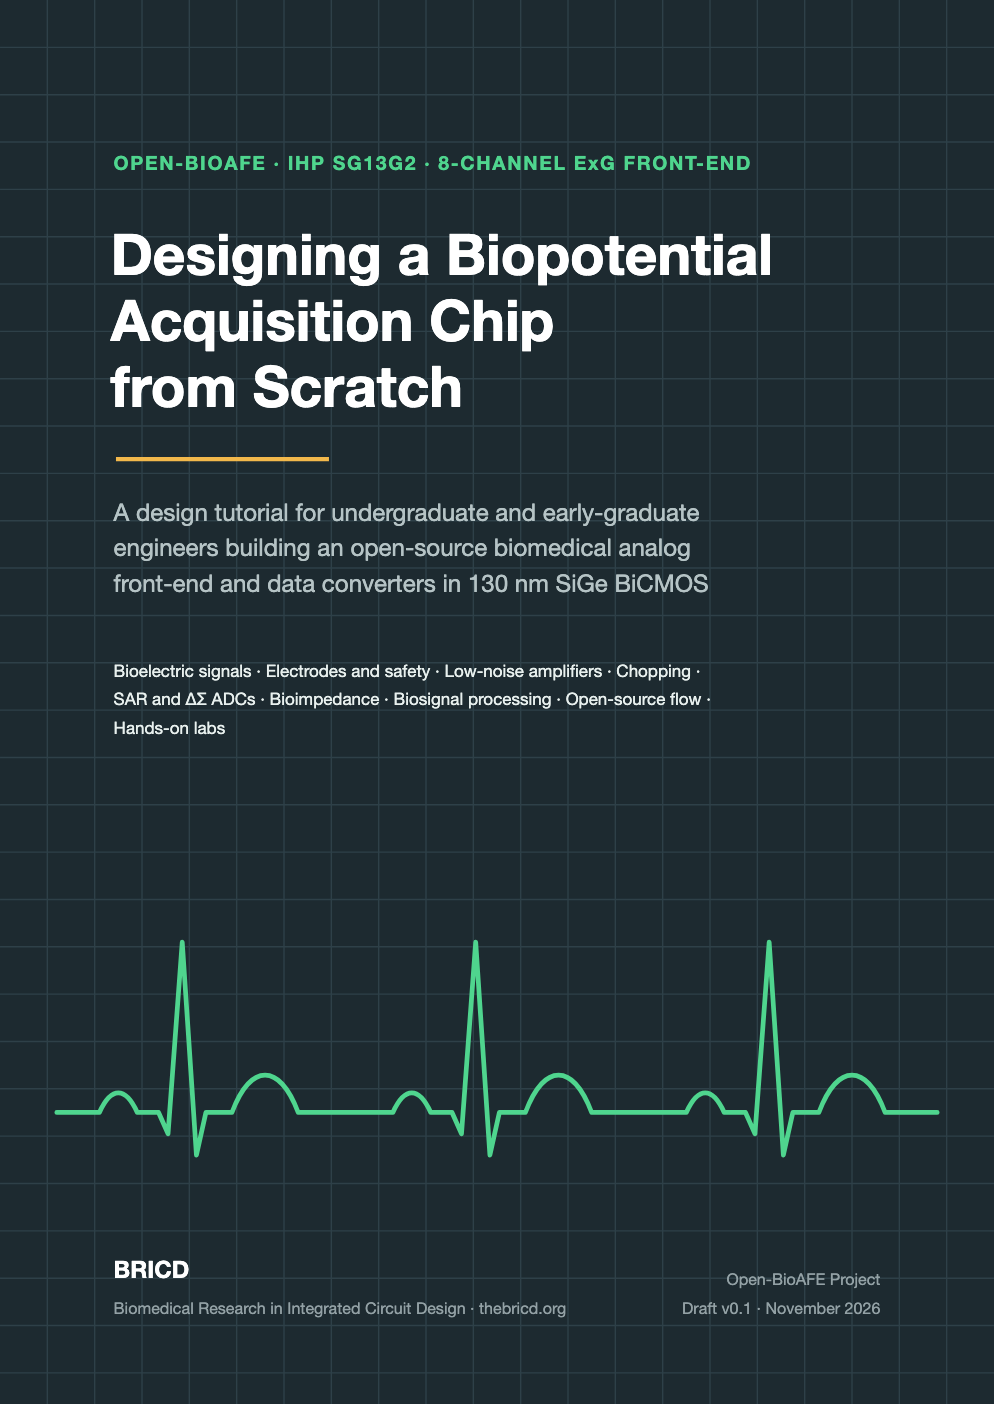
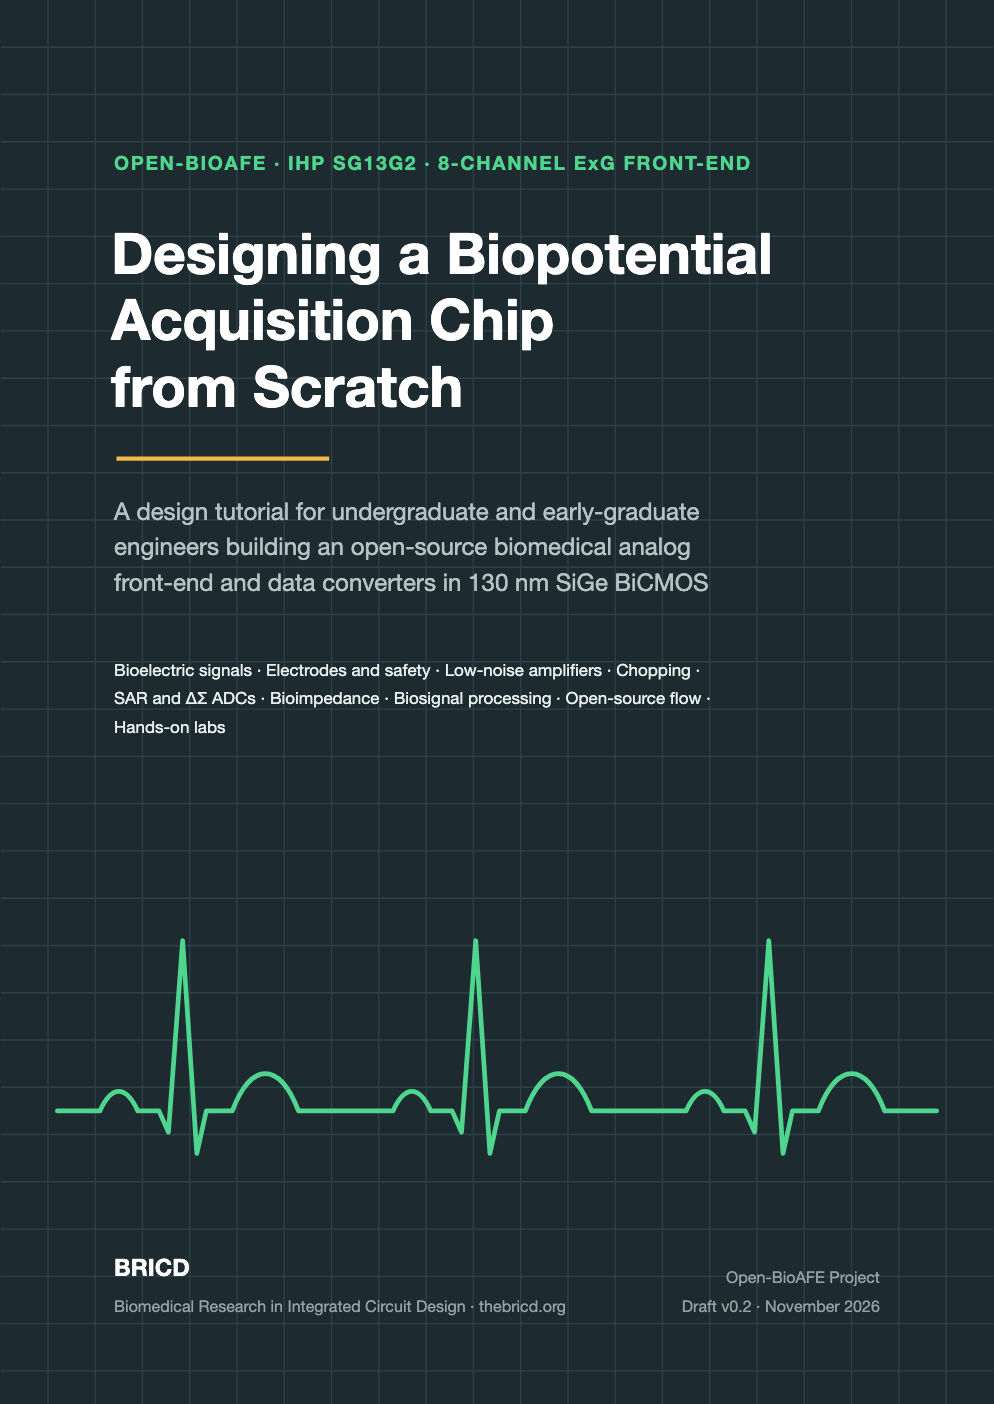
Footer and cover say v0.2
The footer on every page and the cover (SVG, and the PNG used as the
social-preview image, re-rendered at 994 x 1404) still said draft v0.1.

diff --git a/_includes/footer_custom.html b/_includes/footer_custom.html
@@ -1,7 +1,7 @@
 {% include prev-next.html %}
 <p class="text-small mb-0">
   <a href="https://www.thebricd.org">BRICD</a> · Biomedical Research in Integrated Circuit Design ·
-  Open-BioAFE Tutorial, draft v0.1 (November 2026) ·
+  Open-BioAFE Tutorial, draft v0.2 (November 2026) ·
   <a href="https://github.com/bricd-org/biomedical-ic-design">Source on GitHub</a>
 </p>
 <p class="text-small mb-0">
